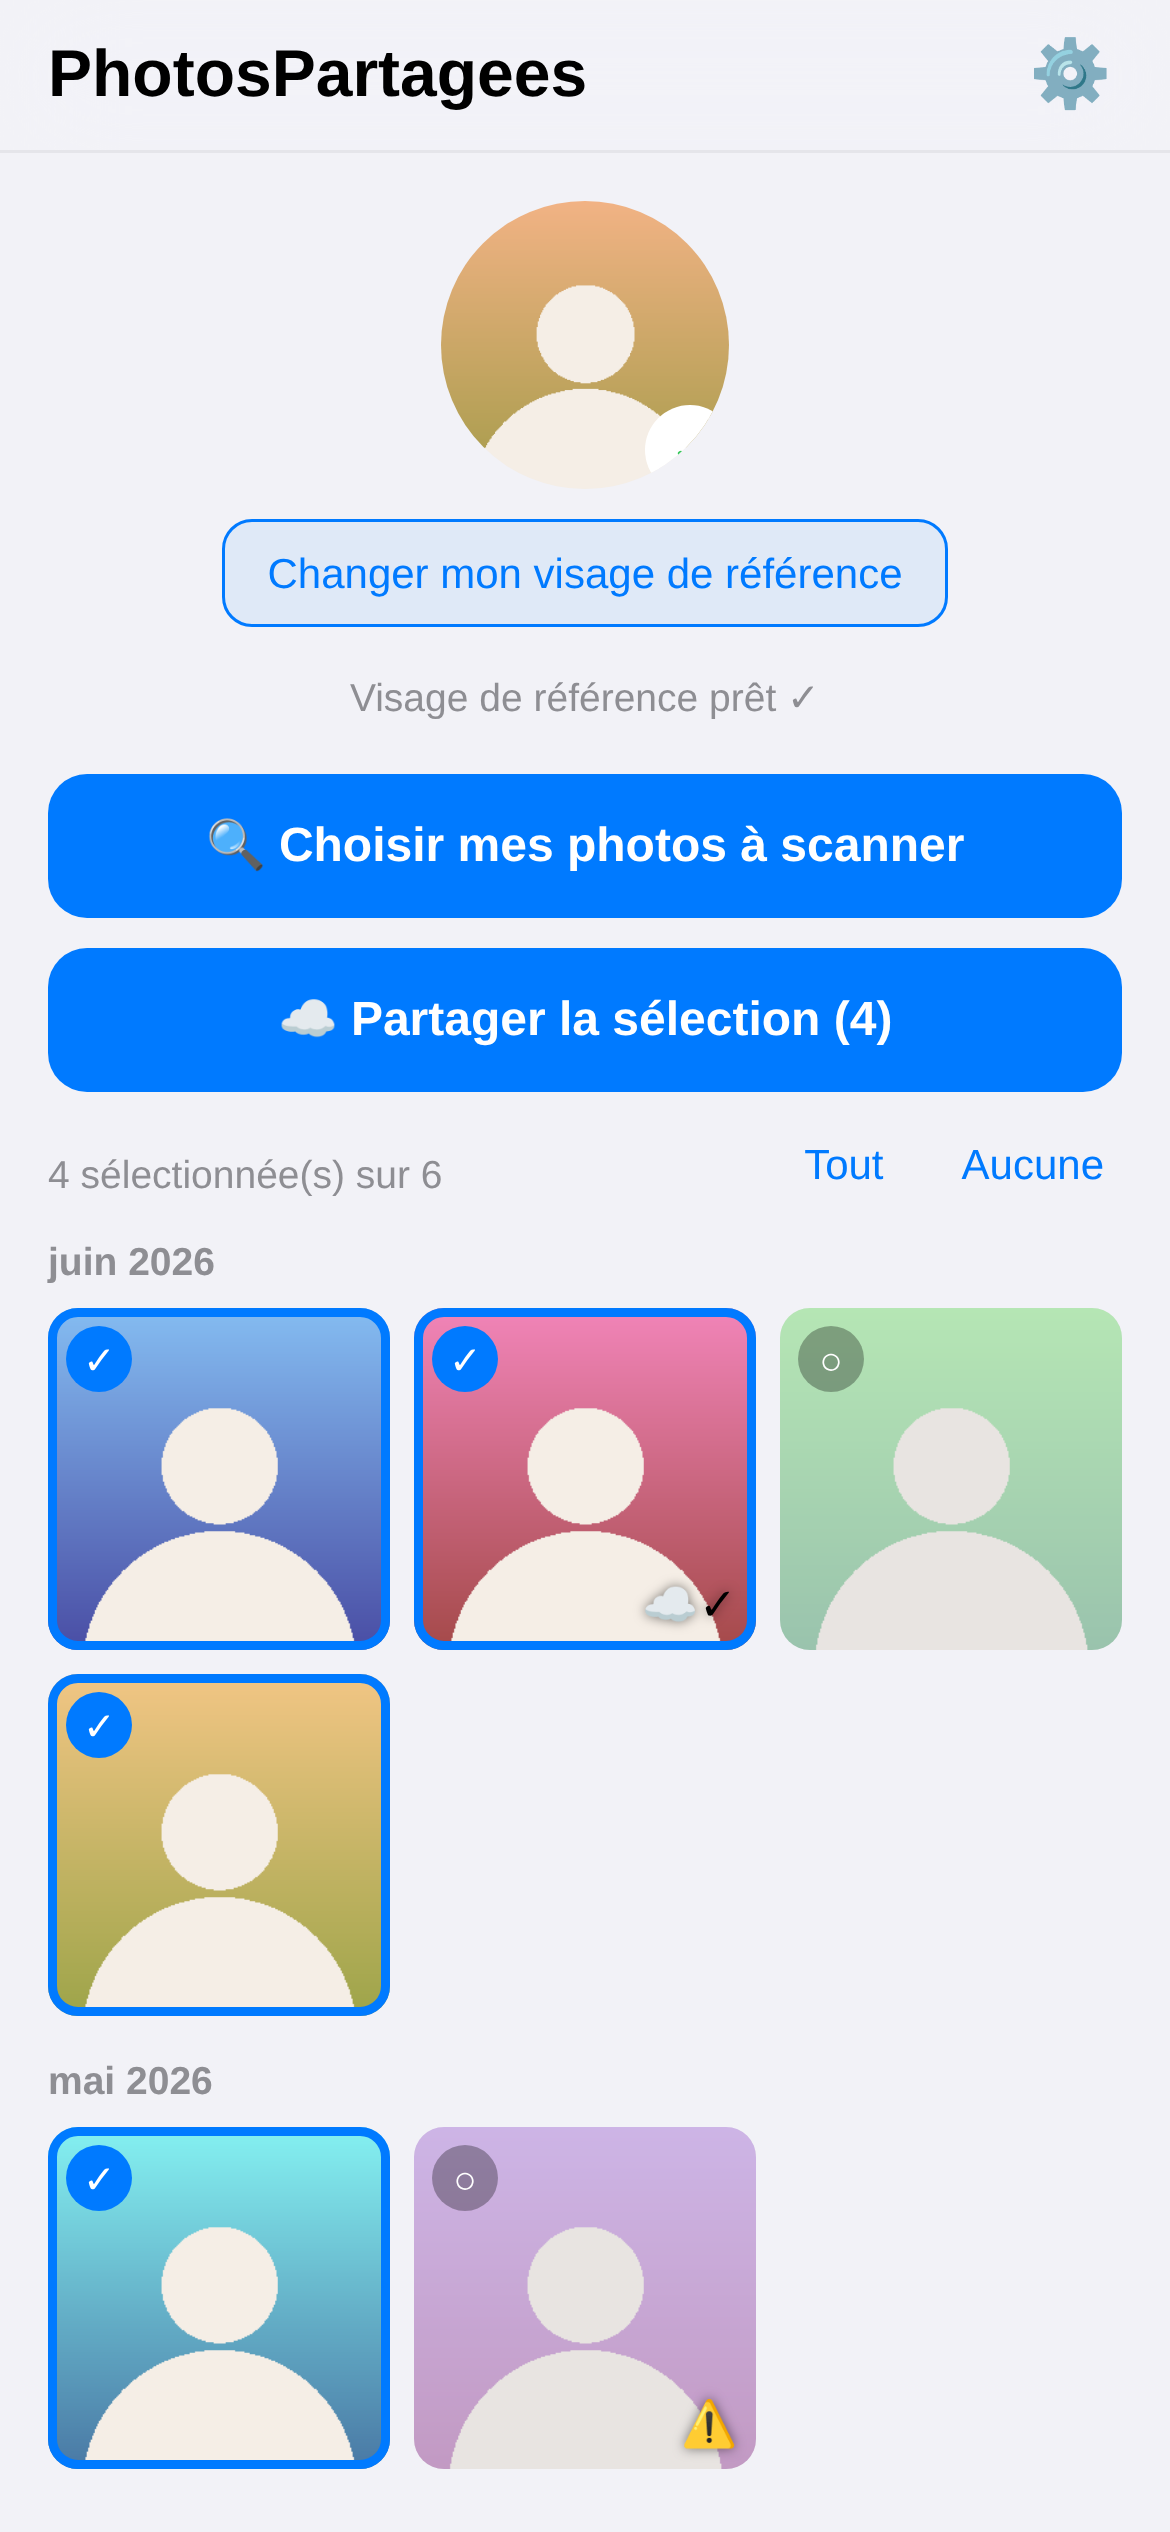
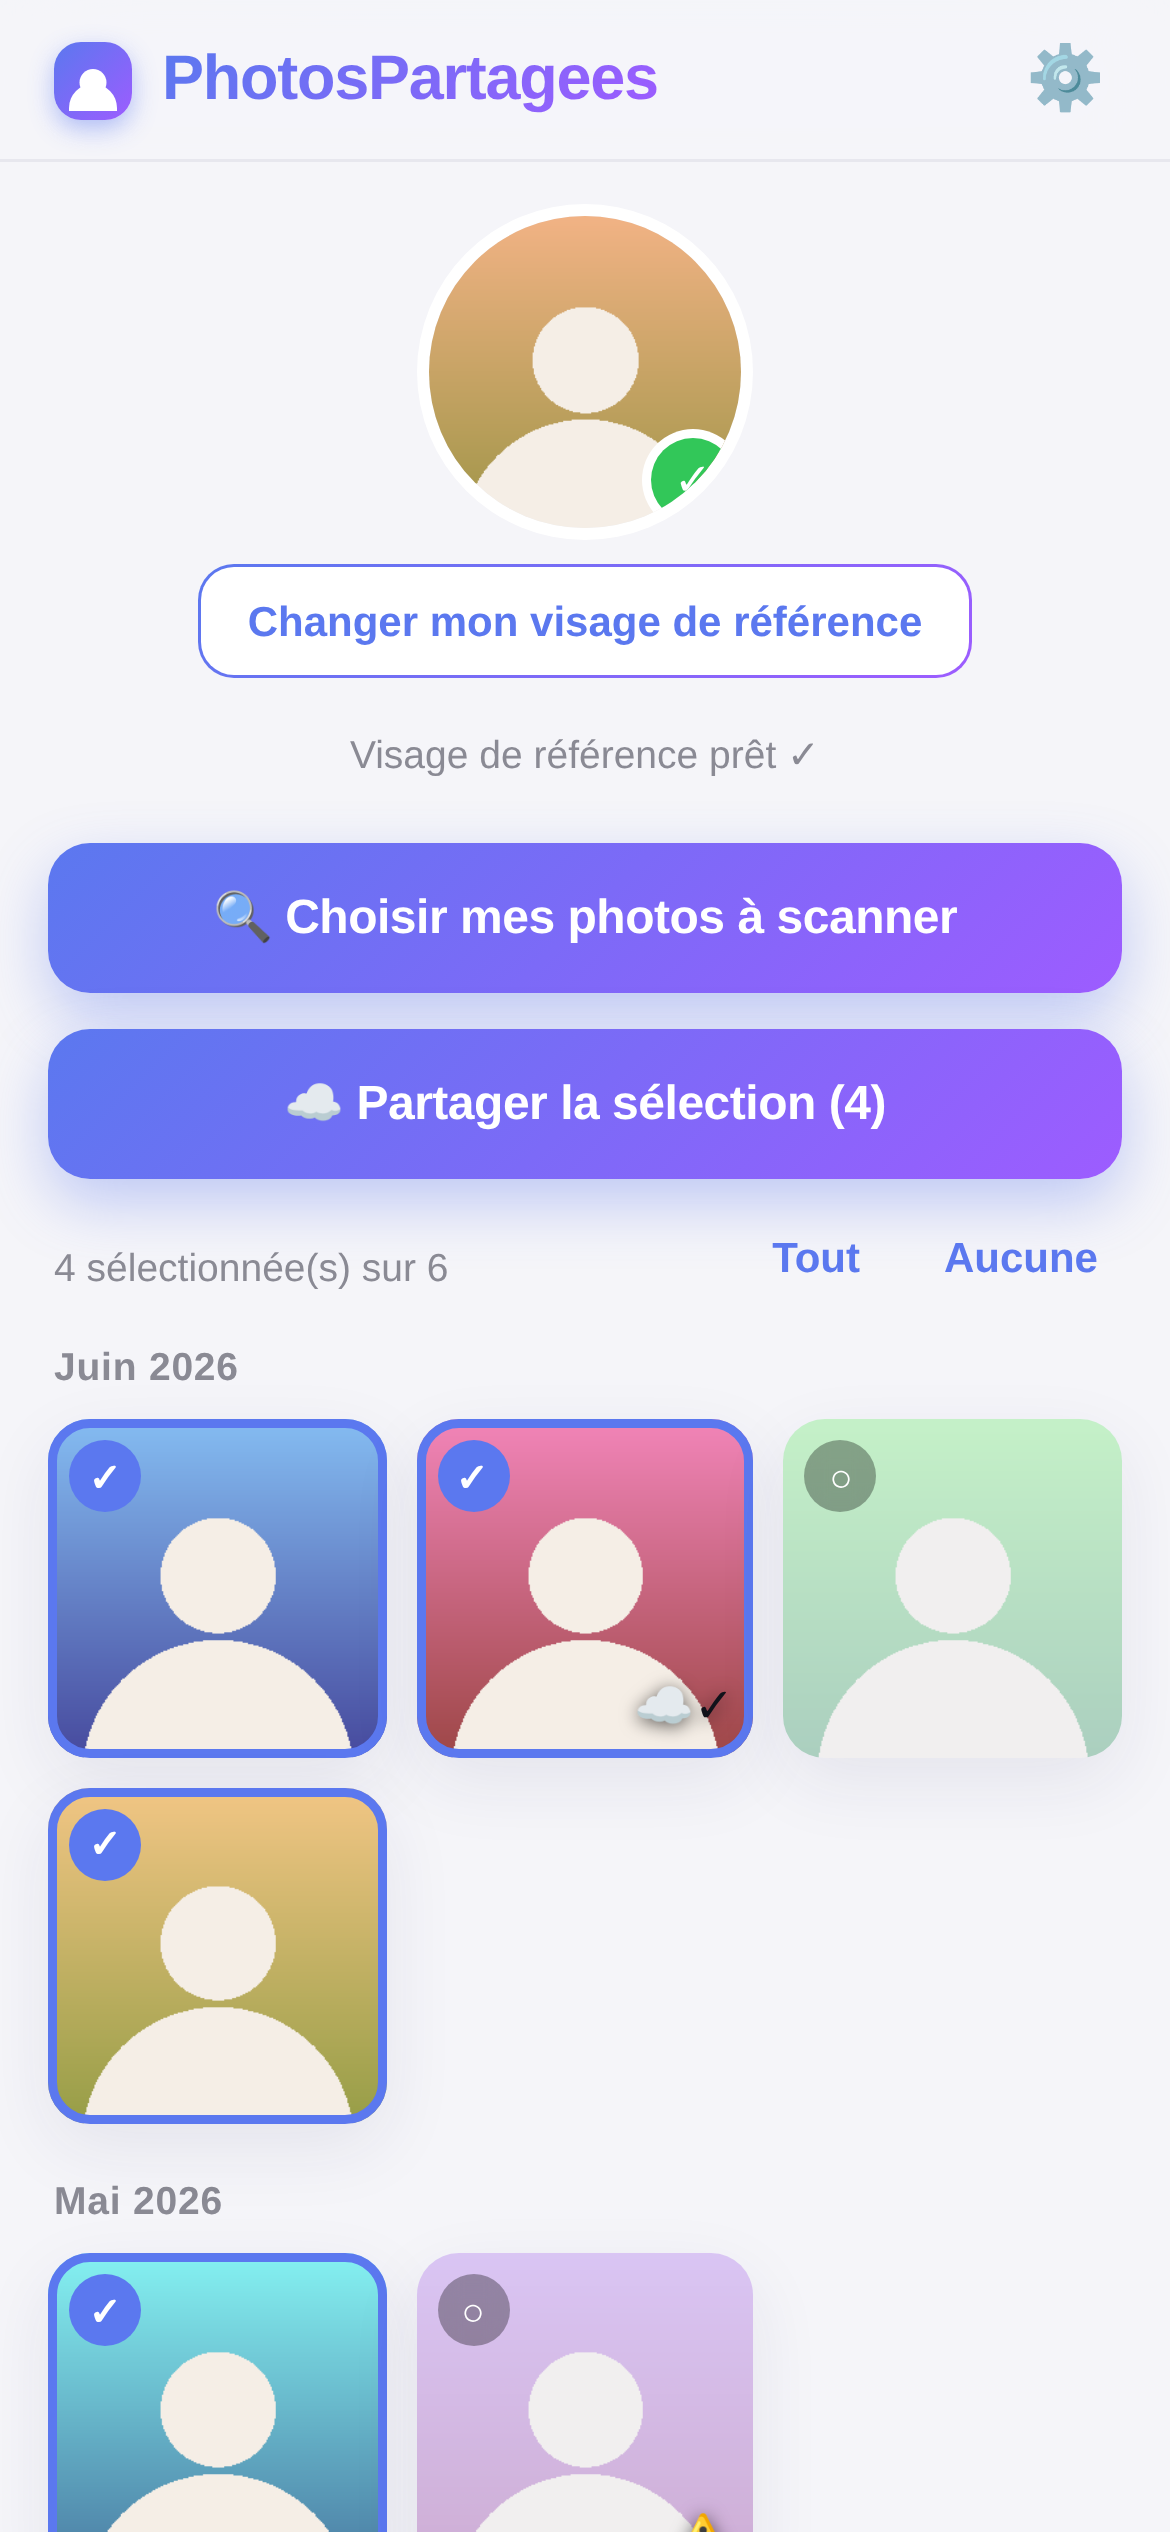
design: refonte UI web (identité dégradé bleu→violet, mode sombre, finitions)
- styles.css : palette de marque, logo, boutons dégradés, ombres, coins arrondis
- mode sombre automatique (prefers-color-scheme)
- nav avec logo + titre dégradé
- docs/screenshots : captures clair/sombre/réglages/récap (rendu navigateur)

diff --git a/web/styles.css b/web/styles.css
@@ -1,15 +1,29 @@
 :root{
-  --bg:#f2f2f7; --card:#fff; --sep:#e5e5ea; --sec:#8e8e93;
-  --accent:#007aff; --green:#34c759; --red:#ff3b30; --orange:#ff9500;
+  --bg:#f5f5f9; --bg2:#eef0f6; --card:#ffffff; --sep:#e7e7ee; --sec:#8a8a94;
+  --txt:#11121a;
+  --accent:#5b78ef; --accent2:#9d5cff;
+  --green:#32c759; --red:#ff453a; --orange:#ff9f0a;
+  --grad:linear-gradient(135deg,#5b78ef,#9d5cff);
+  --radius:16px;
+  --shadow:0 8px 24px rgba(40,40,90,.08);
   --safe-top:env(safe-area-inset-top,0px);
   --safe-bot:env(safe-area-inset-bottom,0px);
+}
+@media (prefers-color-scheme: dark){
+  :root{
+    --bg:#000005; --bg2:#0e0e16; --card:#16161f; --sep:#26262f; --sec:#9a9aa6;
+    --txt:#f4f4f8; --shadow:0 8px 24px rgba(0,0,0,.5);
+  }
 }
 *{box-sizing:border-box;-webkit-tap-highlight-color:transparent}
 html,body{margin:0}
 body{
-  background:var(--bg);color:#000;
+  background:
+    radial-gradient(1200px 400px at 50% -200px, rgba(91,120,239,.18), transparent 60%),
+    var(--bg);
+  color:var(--txt);min-height:100vh;
   font-family:-apple-system,BlinkMacSystemFont,"Segoe UI",Roboto,Helvetica,Arial,sans-serif;
-  padding-bottom:calc(24px + var(--safe-bot));
+  padding-bottom:calc(28px + var(--safe-bot));
 }
 .hidden{display:none !important}
 .mono{font-variant-numeric:tabular-nums;color:var(--sec)}
@@ -17,91 +31,116 @@ body{
 
 /* Nav */
 .nav{
-  position:sticky;top:0;z-index:5;background:rgba(242,242,247,.85);
-  backdrop-filter:saturate(180%) blur(20px);
-  padding:calc(8px + var(--safe-top)) 16px 8px;
+  position:sticky;top:0;z-index:5;
+  background:color-mix(in srgb, var(--bg) 80%, transparent);
+  backdrop-filter:saturate(180%) blur(20px);-webkit-backdrop-filter:saturate(180%) blur(20px);
+  padding:calc(10px + var(--safe-top)) 18px 10px;
   display:flex;align-items:center;justify-content:space-between;border-bottom:1px solid var(--sep);
 }
-.nav h1{font-size:22px;font-weight:800;margin:0}
-.iconbtn{background:none;border:none;font-size:22px;padding:4px}
+.brand{display:flex;align-items:center;gap:10px}
+.logo{width:26px;height:26px;border-radius:9px;background:var(--grad);box-shadow:0 3px 8px rgba(91,120,239,.45);
+  position:relative;flex:none}
+.logo::after{content:"";position:absolute;left:50%;top:38%;transform:translateX(-50%);
+  width:9px;height:9px;border-radius:50%;background:#fff}
+.logo::before{content:"";position:absolute;left:50%;bottom:3px;transform:translateX(-50%);
+  width:16px;height:9px;border-radius:8px 8px 0 0;background:#fff}
+.nav h1{font-size:21px;font-weight:800;margin:0;letter-spacing:-.02em;
+  background:var(--grad);-webkit-background-clip:text;background-clip:text;color:transparent}
+.iconbtn{background:none;border:none;font-size:21px;padding:4px;cursor:pointer;opacity:.85}
 
-.content{max-width:560px;margin:0 auto;padding:16px}
+.content{max-width:560px;margin:0 auto;padding:18px 16px}
 
 /* Référence */
-.ref{display:flex;flex-direction:column;align-items:center;gap:10px;margin-bottom:18px}
+.ref{display:flex;flex-direction:column;align-items:center;gap:12px;margin-bottom:22px}
 .avatar{
-  width:96px;height:96px;border-radius:50%;background:#e5e5ea;overflow:hidden;
-  display:flex;align-items:center;justify-content:center;font-size:34px;color:var(--sec);
+  width:104px;height:104px;border-radius:50%;background:var(--bg2);overflow:hidden;
+  display:flex;align-items:center;justify-content:center;font-size:36px;color:var(--sec);
   background-size:cover;background-position:center;position:relative;
+  box-shadow:0 0 0 4px var(--card), 0 0 0 6px transparent;
 }
-.avatar.ok::after{content:"✓";position:absolute;right:0;bottom:0;width:26px;height:26px;border-radius:50%;
-  background:#fff;color:var(--green);display:flex;align-items:center;justify-content:center;font-size:15px;box-shadow:0 0 0 2px #fff}
-.pill{border:1px solid var(--accent);color:var(--accent);background:rgba(0,122,255,.08);
-  border-radius:10px;padding:9px 14px;font-size:14px;cursor:pointer}
+.avatar.ok{box-shadow:0 0 0 4px var(--card), 0 0 0 7px transparent;
+  outline:3px solid transparent;border-image:var(--grad) 1}
+.avatar.ok{padding:0;}
+.avatar.ok::before{content:"";position:absolute;inset:-5px;border-radius:50%;
+  background:var(--grad);z-index:-1}
+.avatar.ok::after{content:"✓";position:absolute;right:2px;bottom:2px;width:28px;height:28px;border-radius:50%;
+  background:var(--green);color:#fff;display:flex;align-items:center;justify-content:center;font-size:15px;
+  box-shadow:0 0 0 3px var(--card)}
+.pill{border:1.5px solid transparent;border-radius:12px;padding:10px 16px;font-size:14px;font-weight:600;
+  cursor:pointer;color:var(--accent);
+  background:linear-gradient(var(--card),var(--card)) padding-box,var(--grad) border-box}
 
 /* Boutons */
-.actions{display:flex;flex-direction:column;gap:10px;margin-bottom:14px}
-.btn{display:block;width:100%;border:none;border-radius:13px;padding:14px;
-  font-size:16px;font-weight:600;text-align:center;cursor:pointer}
-.btn-primary{background:var(--accent);color:#fff}
-.btn-primary[aria-disabled="true"]{opacity:.4;pointer-events:none}
-.btn-primary:disabled{opacity:.4}
-.btn-bordered{background:rgba(120,120,128,.12);color:var(--accent)}
+.actions{display:flex;flex-direction:column;gap:12px;margin-bottom:16px}
+.btn{display:block;width:100%;border:none;border-radius:14px;padding:15px;
+  font-size:16px;font-weight:700;text-align:center;cursor:pointer;letter-spacing:-.01em}
+.btn-primary{background:var(--grad);color:#fff;box-shadow:0 8px 20px rgba(91,120,239,.35)}
+.btn-primary[aria-disabled="true"]{opacity:.45;pointer-events:none;box-shadow:none}
+.btn-primary:disabled{opacity:.45;box-shadow:none}
+.btn-bordered{background:var(--bg2);color:var(--accent)}
 .btn-plain{background:none;color:var(--accent)}
-.link{background:none;border:none;color:var(--accent);font-size:14px;margin-left:14px;cursor:pointer}
+.link{background:none;border:none;color:var(--accent);font-size:14px;font-weight:600;margin-left:16px;cursor:pointer}
 
 /* Progression */
-.progress-box{margin:6px 0 14px}
-.progress{height:6px;border-radius:3px;background:#d1d1d6;overflow:hidden}
-.progress>i{display:block;height:100%;width:0;background:var(--accent);transition:width .15s}
+.progress-box{margin:8px 0 16px}
+.progress{height:8px;border-radius:4px;background:var(--bg2);overflow:hidden}
+.progress>i{display:block;height:100%;width:0;background:var(--grad);transition:width .15s;border-radius:4px}
 
 /* Sélection */
-.selbar{display:flex;justify-content:space-between;align-items:center;margin:6px 0 10px}
+.selbar{display:flex;justify-content:space-between;align-items:center;margin:8px 2px 12px}
 
 /* Résultats */
-.month{font-size:13px;font-weight:700;color:var(--sec);margin:14px 0 8px}
-.grid{display:grid;grid-template-columns:repeat(3,1fr);gap:8px}
+.month{font-size:13px;font-weight:800;color:var(--sec);margin:18px 2px 10px;text-transform:capitalize;letter-spacing:.02em}
+.grid{display:grid;grid-template-columns:repeat(3,1fr);gap:10px}
 @media(min-width:480px){.grid{grid-template-columns:repeat(4,1fr)}}
-.thumb{position:relative;aspect-ratio:1;border-radius:10px;overflow:hidden;cursor:pointer;background:#ddd}
+.thumb{position:relative;aspect-ratio:1;border-radius:14px;overflow:hidden;cursor:pointer;background:var(--bg2);
+  box-shadow:var(--shadow);transition:transform .12s}
+.thumb:active{transform:scale(.97)}
 .thumb img{width:100%;height:100%;object-fit:cover;display:block}
-.thumb.off img{opacity:.45}
+.thumb.off img{opacity:.4}
 .thumb.sel{outline:3px solid var(--accent);outline-offset:-3px}
-.selbadge{position:absolute;top:6px;left:6px;width:22px;height:22px;border-radius:50%;
-  display:flex;align-items:center;justify-content:center;font-size:13px;background:rgba(0,0,0,.3);color:#fff}
+.selbadge{position:absolute;top:7px;left:7px;width:24px;height:24px;border-radius:50%;
+  display:flex;align-items:center;justify-content:center;font-size:13px;font-weight:700;
+  background:rgba(0,0,0,.32);color:#fff;backdrop-filter:blur(4px)}
 .thumb.sel .selbadge{background:var(--accent)}
-.up{position:absolute;bottom:6px;right:6px;font-size:15px;filter:drop-shadow(0 0 2px rgba(0,0,0,.5))}
+.up{position:absolute;bottom:7px;right:7px;font-size:16px;filter:drop-shadow(0 1px 3px rgba(0,0,0,.6))}
 
 /* Placeholder */
-.placeholder{text-align:center;color:var(--sec);padding:36px 16px}
-.placeholder .ph-icon{font-size:44px}
-.placeholder h2{margin:8px 0 4px;color:#000;font-size:18px}
-.placeholder p{font-size:14px;margin:0 auto;max-width:300px}
+.placeholder{text-align:center;color:var(--sec);padding:48px 16px}
+.placeholder .ph-icon{font-size:50px;filter:grayscale(.2)}
+.placeholder h2{margin:12px 0 6px;color:var(--txt);font-size:19px;font-weight:700}
+.placeholder p{font-size:14px;margin:0 auto;max-width:300px;line-height:1.4}
 
 /* Loader */
-.loader{position:fixed;inset:0;background:#fff;z-index:50;display:flex;
-  flex-direction:column;align-items:center;justify-content:center;gap:16px}
-.loader p{color:var(--sec);font-size:14px}
-.spinner{width:38px;height:38px;border-radius:50%;border:4px solid #e5e5ea;border-top-color:var(--accent);
+.loader{position:fixed;inset:0;background:var(--bg);z-index:50;display:flex;
+  flex-direction:column;align-items:center;justify-content:center;gap:18px}
+.loader p{color:var(--sec);font-size:14px;padding:0 30px;text-align:center}
+.spinner{width:42px;height:42px;border-radius:50%;
+  background:conic-gradient(from 0deg, transparent, var(--accent));
+  -webkit-mask:radial-gradient(farthest-side,transparent calc(100% - 4px),#000 0);
+  mask:radial-gradient(farthest-side,transparent calc(100% - 4px),#000 0);
   animation:spin 1s linear infinite}
 @keyframes spin{to{transform:rotate(360deg)}}
 
 /* Sheets */
-.sheet-backdrop{position:fixed;inset:0;background:rgba(0,0,0,.35);z-index:40;display:flex;align-items:flex-end}
-.sheet{background:var(--bg);width:100%;border-radius:16px 16px 0 0;
-  padding:18px 16px calc(24px + var(--safe-bot));max-width:560px;margin:0 auto;animation:up .25s ease}
+.sheet-backdrop{position:fixed;inset:0;background:rgba(0,0,0,.45);z-index:40;display:flex;align-items:flex-end;
+  backdrop-filter:blur(2px)}
+.sheet{background:var(--bg);width:100%;border-radius:22px 22px 0 0;
+  padding:20px 18px calc(28px + var(--safe-bot));max-width:560px;margin:0 auto;animation:up .28s cubic-bezier(.2,.8,.2,1)}
+.sheet::before{content:"";display:block;width:40px;height:5px;border-radius:3px;background:var(--sep);margin:-6px auto 14px}
 @keyframes up{from{transform:translateY(100%)}to{transform:translateY(0)}}
-.sheet-head{display:flex;justify-content:space-between;align-items:center;margin-bottom:12px}
-.sheet-head h2{margin:0;font-size:18px}
-.group{background:var(--card);border-radius:12px;overflow:hidden;margin:6px 0}
-.item{display:flex;align-items:center;justify-content:space-between;gap:12px;padding:12px 14px;font-size:15px}
+.sheet-head{display:flex;justify-content:space-between;align-items:center;margin-bottom:14px}
+.sheet-head h2{margin:0;font-size:19px;font-weight:700}
+.group{background:var(--card);border-radius:14px;overflow:hidden;margin:8px 0;box-shadow:var(--shadow)}
+.item{display:flex;align-items:center;justify-content:space-between;gap:12px;padding:14px 16px;font-size:15px}
 .item input[type=range]{flex:1;accent-color:var(--accent)}
-.foot{font-size:12px;color:var(--sec);margin:4px 4px 12px}
+.foot{font-size:12px;color:var(--sec);margin:6px 6px 14px;line-height:1.4}
 
 /* Recap */
-.recap{display:flex;flex-direction:column;align-items:center;text-align:center;min-height:46vh}
-.seal{font-size:54px;margin:8px 0 10px}
-.recap h2{margin:0 0 16px}
-.sumrow{font-size:15px;margin:4px 0}
+.recap{display:flex;flex-direction:column;align-items:center;text-align:center;min-height:48vh}
+.seal{font-size:58px;margin:10px 0 12px}
+.recap h2{margin:0 0 18px;font-size:20px}
+.sumrow{font-size:15px;font-weight:600;margin:5px 0}
 .sumrow.ok{color:var(--green)} .sumrow.fail{color:var(--red)}
-.spacer{flex:1;min-height:14px}
+.spacer{flex:1;min-height:16px}
 .recap .btn{margin-top:10px}

diff --git a/web/index.html b/web/index.html
@@ -21,7 +21,7 @@
   </div>
 
   <header class="nav">
-    <h1>PhotosPartagees</h1>
+    <div class="brand"><span class="logo"></span><h1>PhotosPartagees</h1></div>
     <button id="settingsBtn" class="iconbtn" aria-label="Réglages">⚙</button>
   </header>
 
